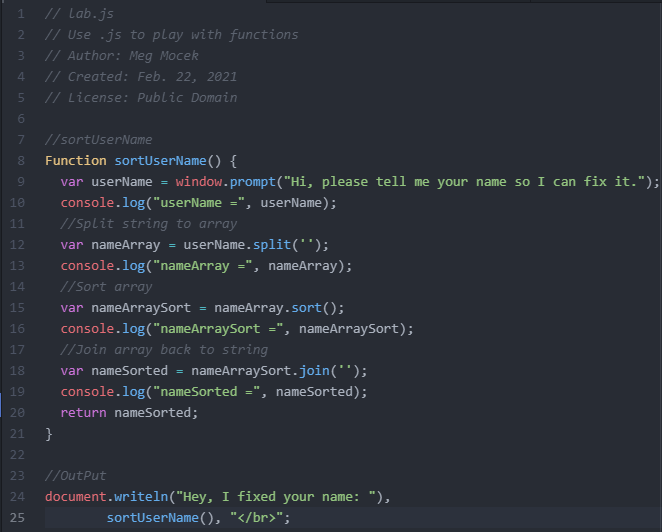
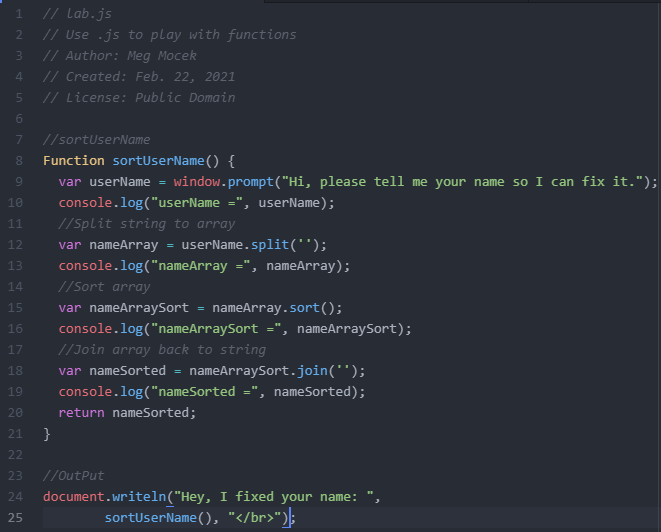
js fix

diff --git a/lab7/js/lab.js b/lab7/js/lab.js
@@ -5,7 +5,7 @@
 // License: Public Domain
 
 //sortUserName
-Function sortUserName() {
+function sortUserName() {
   var userName = window.prompt("Hi, please tell me your name so I can fix it.");
   console.log("userName =", userName);
   //Split string to array
